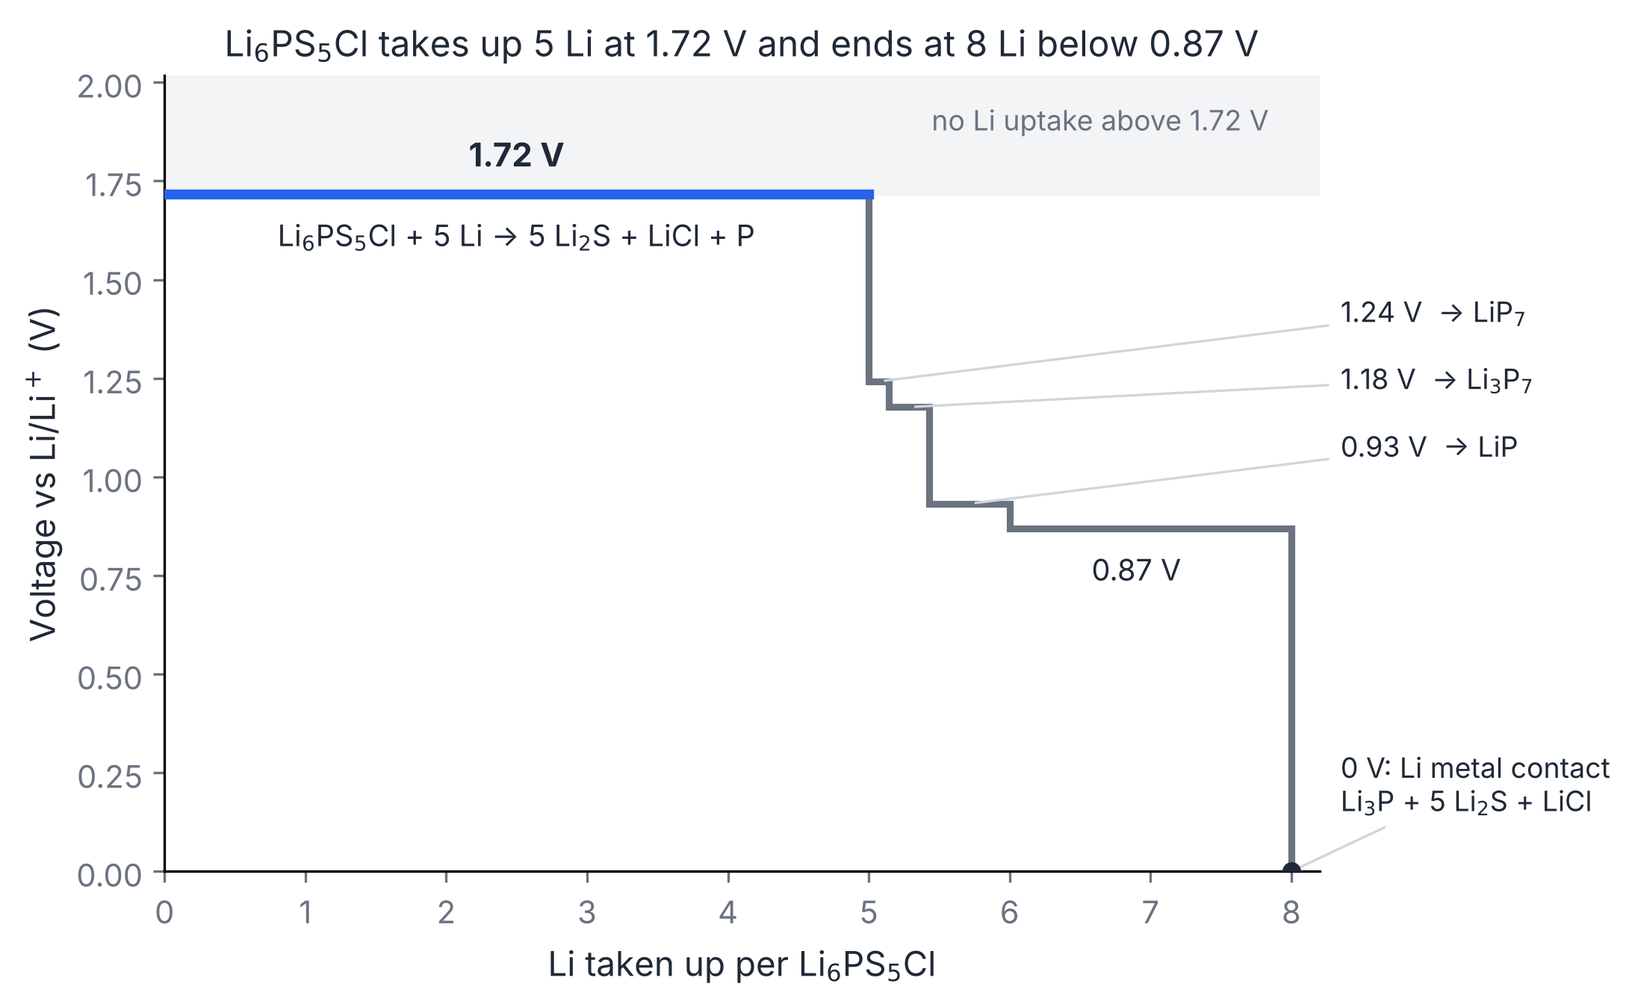
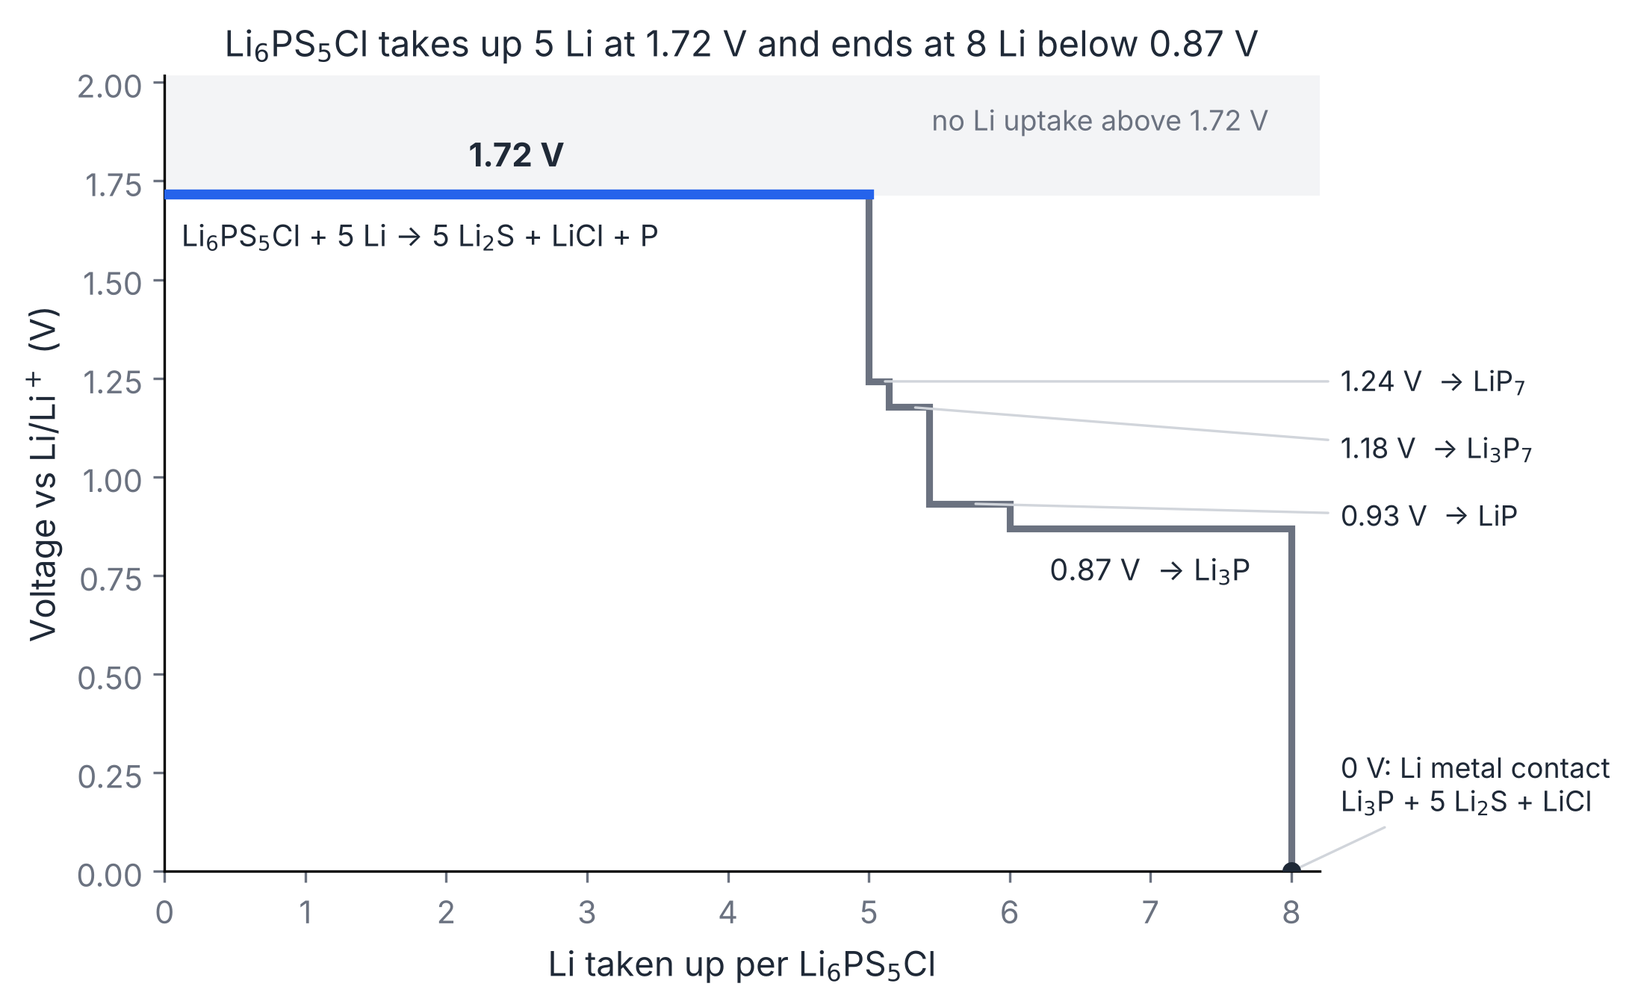
SDI Ag–C Q2 결과: Ag2S 1.91 V · Li–Ag ≤ 0.59 V · 열린계 Ag2S 2.0 V 부터 · 닫힌계 반응 0 — 그림 2 · 3 + CSV · 카드 결과 (결정은 proposed 유지)
- plot_li_uptake_profile.py: 전위 지도 모드 (--window_map · --interface) · 묶음 표시 (--group_below) · 라벨 배치 ·
  selftest 22 (음성: 반응물 쪽 Ag2S · 끝점 칸 · 빈 격자) · 변이 6 잡음
- 그림 1 다시 그림 (라벨) · 그림 2 Ag2S 계단 · 그림 3 Ag | Li6PS5Cl 전위 지도 (+ Origin CSV)
- 카드 sdi_agc_ag2s_window: 결과_2026_11_16 (G1–G4 · 허용 문장 채움) · 결정 D-2026-11-16-sdi-agc-ag2s-window 는 사용자 명시 비준 대기
- open_items SDI 줄

Claude-Session: https://claude.ai/code/session_01Er41drwDRfvL6hhZbVtBiw

diff --git a/tools/oxidation/plot_li_uptake_profile.py b/tools/oxidation/plot_li_uptake_profile.py
@@ -124,7 +124,7 @@ def staircase_rows(prof, side):
     return keep, pts
 
 
-def plot(prof, name, side, out_png, title=None, contact_label="0 V: Li metal contact"):
+def plot(prof, name, side, out_png, title=None, contact_label="0 V: Li metal contact", group_below=None, group_label=None):
     import matplotlib
     matplotlib.use("Agg")
     import matplotlib.pyplot as plt
@@ -149,21 +149,37 @@ def plot(prof, name, side, out_png, title=None, contact_label="0 V: Li metal con
     ax.plot([first["n0"], first["n1"]], [first["V"]] * 2, color=GAPLINE, lw=3.2, zorder=3)
     ax.text((first["n0"] + first["n1"]) / 2, first["V"] + 0.05, f"{first['V']:.2f} V", ha="center", va="bottom",
             fontsize=10.5, fontweight="bold", color=INK)
-    ax.text((first["n0"] + first["n1"]) / 2, first["V"] - 0.06, _mt(f"{name} + {first['n1']:g} Li → {first['end_products']}"),
-            ha="center", va="top", fontsize=9.5, color=INK)
-    narrow = [s for s in keep[1:] if (s["n1"] - s["n0"]) < 1.0]
-    wide = [s for s in keep[1:] if (s["n1"] - s["n0"]) >= 1.0]
-    for j, s in enumerate(narrow):
-        ly = edge - 0.30 - 0.17 * j
+    lab0 = _mt(f"{name} + {first['n1']:g} Li → {first['end_products']}")
+    fits = len(re.sub(r"\$_\{[^}]*\}\$", "x", lab0)) * 0.085 < (first["n1"] - first["n0"]) - 0.2
+    ax.text(first["n0"] + 0.12 if fits else first["n1"] + 0.15, first["V"] - 0.06, lab0,
+            ha="left", va="top", fontsize=9.5, color=INK)
+    rest = keep[1:]
+    grouped = [s for s in rest if group_below is not None and s["V"] < group_below]
+    rest = [s for s in rest if s not in grouped]
+    narrow = [s for s in rest if (s["n1"] - s["n0"]) < 1.0]
+    wide = [s for s in rest if (s["n1"] - s["n0"]) >= 1.0]
+    if grouped:
+        vlo, vhi = min(s["V"] for s in grouped), max(s["V"] for s in grouped)
+        bx = xmax + 0.28
+        ax.plot([bx, bx + 0.08, bx + 0.08, bx], [vhi, vhi, vlo, vlo], color=MUT, lw=1.0, clip_on=False)
+        ax.text(bx + 0.18, (vlo + vhi) / 2 + 0.06, _mt(f"{group_label or 'grouped steps'}\n{vlo:.2f}–{vhi:.2f} V"),
+                ha="left", va="center", fontsize=9, color=INK)
+    prev = None
+    for j, s in enumerate(sorted(narrow, key=lambda q: -q["V"])):
+        ly = s["V"] if prev is None else min(s["V"], prev - 0.17)
+        prev = ly
         lx = xmax + 0.35
         phase = re.sub(r"^[0-9.]+\s+", "", s["end_products"].split(" + ")[0])
         ax.annotate(_mt(f"{s['V']:.2f} V  → {phase}"), xy=((s["n0"] + s["n1"]) / 2, s["V"]),
                     xytext=(lx, ly), fontsize=9, color=INK, va="center",
                     arrowprops=dict(arrowstyle="-", color="#d1d5db", lw=0.8))
     for s in wide:
-        ax.text((s["n0"] + s["n1"]) / 2 - 0.1, s["V"] - 0.06, f"{s['V']:.2f} V", ha="center", va="top", fontsize=9.5, color=INK)
+        phase = re.sub(r"^[0-9.]+\s+", "", s["end_products"].split(" + ")[0])
+        low = s["V"] < 0.3
+        ax.text((s["n0"] + s["n1"]) / 2, s["V"] + (0.03 if low else -0.06), _mt(f"{s['V']:.2f} V  → {phase}"), ha="center",
+                va="bottom" if low else "top", fontsize=9.5, color=INK)
     ax.plot([end["n"]], [end["V"]], "o", color=INK, ms=5, zorder=4)
-    ax.annotate(_mt(f"{contact_label}\n{end['products']}"), xy=(end["n"], end["V"]), xytext=(xmax + 0.35, 0.22),
+    ax.annotate(_mt(f"{contact_label}\n{end['products']}"), xy=(end["n"], end["V"]), xytext=(xmax + (0.55 if grouped else 0.35), 0.06 if grouped else 0.22),
                 fontsize=9, color=INK, va="center", arrowprops=dict(arrowstyle="-", color="#d1d5db", lw=0.8))
     ax.set_xlim(min(0.0, xs[0]), xmax * 1.0 + 0.2)
     ax.set_ylim(0, ytop)
@@ -173,6 +189,112 @@ def plot(prof, name, side, out_png, title=None, contact_label="0 V: Li metal con
     Path(out_png).parent.mkdir(parents=True, exist_ok=True)
     fig.savefig(out_png, dpi=300, bbox_inches="tight")
     plt.close(fig)
+
+
+def ag2s_grid_from_interface(inter, cathode="Ag", elab="LPSCl"):
+    """열린계 계면 결과 → 격자 전압마다 (Ag2S 가 최소 반응 산물에 있나, 끝점인가).
+    ⛔ 끝점 (자체 분해) 칸 · Ag2S 가 반응물 쪽에만 있는 칸은 'Ag2S 생성' 으로 세지 않는다."""
+    c = inter["results"][cathode]
+    rows = []
+    for V, rx in c["reactions"].items():
+        r = rx.get(elab)
+        deg = bool(c["endpoint_degenerate"][V].get(elab))
+        rhs = r.split("->", 1)[1] if isinstance(r, str) and "->" in r else ""
+        has = (not deg) and bool(re.search(r"(^|\s)Ag2S(\s|$)", rhs.replace("+", " ")))
+        e = c["by_voltage"][V].get(elab)
+        rows.append({"V": float(V), "ag2s_product": has, "endpoint": deg,
+                     "dE_meV_per_atom": None if e is None else round(e * 1000, 1), "reaction": r})
+    rows.sort(key=lambda d: d["V"])
+    yes = [d["V"] for d in rows if d["ag2s_product"]]
+    no_below = [d["V"] for d in rows if not d["ag2s_product"] and (not yes or d["V"] < min(yes))]
+    return {"rows": rows, "onset_grid_V": min(yes) if yes else None,
+            "last_without_V": max(no_below) if (yes and no_below) else None}
+
+
+def window_regions(ladders, se, ag2s, ag, inter=None):
+    """사다리 셋 (+ 열린계 격자) → 전위 지도 구간. 가장자리는 전부 사다리에서 다시 낸다."""
+    pse, p2s, pag = profile(rows_from_result(ladders[se])), profile(rows_from_result(ladders[ag2s])), profile(rows_from_result(ladders[ag]))
+    v_red, v_ox = pse["edge_reduction_V"], pse["edge_oxidation_V"]
+    v_ag2s, v_agli = p2s["edge_reduction_V"], pag["edge_reduction_V"]
+    if v_ox is None:
+        raise ValueError("SE 사다리에 산화 가장자리가 없다")
+    regs = [
+        ("Li6PS5Cl", "reduced by Li (Li2S + LiCl + P, then Li3P)", 0.0, v_red),
+        ("Li6PS5Cl", "stable", v_red, v_ox),
+        ("Li6PS5Cl", "oxidized", v_ox, None),
+        ("Ag2S", "reduced by Li to Li2S + Ag", 0.0, v_ag2s),
+        ("Ag2S", "stable", v_ag2s, None),
+        ("Ag metal next to Li6PS5Cl", "Li-Ag alloys", 0.0, v_agli),
+        ("Ag metal next to Li6PS5Cl", "Ag metal, no reaction", v_agli, v_ag2s),
+        ("Ag metal next to Li6PS5Cl", "Ag + Li6PS5Cl -> Ag2S + Li", v_ag2s, None)]
+    out = {"regions": [{"species": a, "region": b, "V_low": lo, "V_high": hi} for a, b, lo, hi in regs],
+           "V": {"se_reduction": v_red, "se_oxidation": v_ox, "ag2s_reduction": v_ag2s, "ag_lithiation": v_agli}}
+    if inter is not None:
+        out["grid"] = ag2s_grid_from_interface(inter)
+    return out
+
+
+def plot_window_map(wm, out_png, vmax=2.6, title=None):
+    import matplotlib
+    matplotlib.use("Agg")
+    import matplotlib.pyplot as plt
+    sys.path.insert(0, str(Path(__file__).resolve().parents[2]))
+    from tools.figures.house_style import INK, MUT, GAPLINE, apply_axes
+    rows = ["Li6PS5Cl", "Ag2S", "Ag metal next to Li6PS5Cl"]
+    ylab = {"Li6PS5Cl": "Li$_6$PS$_5$Cl", "Ag2S": "Ag$_2$S", "Ag metal next to Li6PS5Cl": "Ag next to\nLi$_6$PS$_5$Cl"}
+    accent_regions = {"stable", "Ag + Li6PS5Cl -> Ag2S + Li"}
+    fig, ax = plt.subplots(figsize=(8.2, 3.6))
+    for k, sp in enumerate(rows):
+        y = len(rows) - 1 - k
+        for r in [r for r in wm["regions"] if r["species"] == sp]:
+            lo, hi = r["V_low"], (r["V_high"] if r["V_high"] is not None else vmax)
+            acc = (sp != "Li6PS5Cl" and r["region"] in accent_regions)
+            light = r["region"] == "stable" or r["region"].startswith("Ag metal, no")
+            col = GAPLINE if acc else ("#e5e7eb" if light else "#9ca3af")
+            ax.barh(y, hi - lo, left=lo, height=0.56, color=col, alpha=0.85 if acc else 1.0, edgecolor="white", lw=1.2)
+            lab = _mt(r["region"].replace("->", "→").replace("Li-Ag", "Li–Ag"))
+            if hi - lo > 0.3:
+                ax.text((lo + hi) / 2, y, lab, ha="center", va="center", fontsize=7.8, color="white" if (acc or not light) else INK)
+        ax.text(-0.05, y, ylab[sp], ha="right", va="center", fontsize=10, color=INK)
+    v = wm["V"]
+    top = len(rows) - 0.55
+    ax.plot([v["ag2s_reduction"]] * 2, [-0.62, top + 0.25], color=GAPLINE, ls="--", lw=1.2, zorder=4)
+    ax.text(v["ag2s_reduction"] + 0.03, top + 0.18, f"{v['ag2s_reduction']:.2f} V", ha="left", va="center", fontsize=9.5,
+            color=GAPLINE, fontweight="bold")
+    ax.plot([0.01, v["ag_lithiation"]], [top + 0.18] * 2, color=MUT, lw=1.6, solid_capstyle="butt")
+    ax.text(v["ag_lithiation"] + 0.03, top + 0.18, f"Li / Li–Ag contact (≤ {v['ag_lithiation']:.2f} V)", ha="left",
+            va="center", fontsize=8.5, color=MUT)
+    g = wm.get("grid")
+    if g:
+        for d in g["rows"]:
+            ax.plot(d["V"], -0.47, "o", ms=5, mfc=INK if d["ag2s_product"] else "white", mec=INK, mew=1.0, zorder=5)
+        ax.text(0.01, -0.70, "open-Li grid (filled = Ag₂S among Ag + Li₆PS₅Cl reaction products)", ha="left", va="center",
+                fontsize=8, color=MUT)
+    ax.set_xlim(0, vmax)
+    ax.set_ylim(-0.85, top + 0.35)
+    ax.set_yticks([])
+    ax.spines["left"].set_visible(False)
+    apply_axes(ax, xlabel="Voltage vs Li/Li$^+$ (V)",
+               title=_mt(title or "Ag2S is stable next to Li6PS5Cl only above 1.91 V vs Li"), fontsize=11)
+    fig.tight_layout()
+    Path(out_png).parent.mkdir(parents=True, exist_ok=True)
+    fig.savefig(out_png, dpi=300, bbox_inches="tight")
+    plt.close(fig)
+
+
+def write_window_csv(wm, out_csv):
+    Path(out_csv).parent.mkdir(parents=True, exist_ok=True)
+    with open(out_csv, "w", newline="", encoding="utf-8") as fh:
+        w = csv.writer(fh)
+        w.writerow(["species", "region", "V_low_vs_Li_V", "V_high_vs_Li_V"])
+        for r in wm["regions"]:
+            w.writerow([r["species"], r["region"], r["V_low"], "" if r["V_high"] is None else r["V_high"]])
+        g = wm.get("grid")
+        if g:
+            w.writerow([])
+            w.writerow(["open_Li_grid_V", "Ag2S_in_min_reaction_products", "endpoint_self_decomposition", "dE_meV_per_atom", "reaction"])
+            for d in g["rows"]:
+                w.writerow([d["V"], d["ag2s_product"], d["endpoint"], "" if d["dE_meV_per_atom"] is None else d["dE_meV_per_atom"], d["reaction"]])
 
 
 def write_csv(pts, out_csv):
@@ -193,6 +315,28 @@ COMP1_FIXTURE = [[0.0, 8.0, "Li6PS5Cl + 8 Li -> Li3P + 5 Li2S + LiCl"],
                  [2.256, -2.0, "Li6PS5Cl -> Li3PS4 + LiCl + S + 2 Li"],
                  [2.385, -5.0, "Li6PS5Cl -> 0.5 P2S7 + LiCl + 1.5 S + 5 Li"],
                  [3.326, -6.0, "Li6PS5Cl -> 0.5 P2S7 + 0.5 S + SCl + 6 Li"]]
+
+
+AG2S_FIXTURE = [[1.914, 0.0, "Ag2S -> Ag2S"], [0.592, 2.0, "Ag2S + 2 Li -> Li2S + 2 Ag"],
+                [0.369, 2.6667, "Ag2S + 2.667 Li -> 0.6667 LiAg3 + Li2S"], [0.14, 4.0, "Ag2S + 4 Li -> 2 LiAg + Li2S"],
+                [0.072, 5.2, "Ag2S + 5.2 Li -> 0.4 Li8Ag5 + Li2S"], [0.0, 8.0, "Ag2S + 8 Li -> 2 Li3Ag + Li2S"]]
+AG_FIXTURE = [[0.592, 0.0, "Ag -> Ag"], [0.369, 0.3333, "Ag + 0.3333 Li -> 0.3333 LiAg3"], [0.14, 1.0, "Ag + Li -> LiAg"],
+              [0.072, 1.6, "Ag + 1.6 Li -> 0.2 Li8Ag5"], [0.0, 3.0, "Ag + 3 Li -> Li3Ag"]]
+
+
+def _iface_fixture():
+    def cell(V, rx, deg, e):
+        return V, rx, deg, e
+    cells = [cell("1.90", "Li6PS5Cl -> Li2S + Li3PS4 + LiCl", True, 0.0),
+             cell("2.00", "0.6667 Ag + 0.3333 Li6PS5Cl -> 0.6667 Li + 0.3333 Li3PS4 + 0.3333 Ag2S + 0.3333 LiCl", False, -0.019),
+             cell("1.50", "Li6PS5Cl + 5 Li -> P + 5 Li2S + LiCl", True, -0.155),
+             cell("2.10", "0.8333 Ag + 0.1667 Li6PS5Cl -> 0.8333 Li + 0.1667 Ag3PS4 + 0.1667 Ag2S + 0.1667 LiCl", False, -0.055)]
+    c = {"reactions": {}, "endpoint_degenerate": {}, "by_voltage": {}}
+    for V, rx, deg, e in cells:
+        c["reactions"][V] = {"LPSCl": rx}
+        c["endpoint_degenerate"][V] = {"LPSCl": deg}
+        c["by_voltage"][V] = {"LPSCl": e}
+    return {"results": {"Ag": c}}
 
 
 def selftest():
@@ -241,6 +385,25 @@ def selftest():
     chk("[음성] V_vs_Li 없는 profile (Li 를 안 연 결과) 은 멈춘다",
         raises(lambda: rows_from_result({"profile": [{"evolution_Li": 0, "reaction": "a -> b"}]})))
     chk("[음성] steps 도 profile 도 없으면 멈춘다", raises(lambda: rows_from_result({"reduction_limit_V": 1.242})))
+    lad = {"comp1": {"steps": COMP1_FIXTURE}, "Ag2S": {"steps": AG2S_FIXTURE}, "Ag": {"steps": AG_FIXTURE}}
+    wmap = window_regions(lad, "comp1", "Ag2S", "Ag", _iface_fixture())
+    chk("[양성] 전위 지도 가장자리 = SE 1.717 / 2.256 · Ag2S 1.914 · Li–Ag 0.592 (전부 사다리에서)",
+        wmap["V"] == {"se_reduction": 1.717, "se_oxidation": 2.256, "ag2s_reduction": 1.914, "ag_lithiation": 0.592})
+    chk("[양성] 열린계 격자: Ag2S 첫 등장 2.0 V · 그 아래 마지막 '없음' 1.9 V", wmap["grid"]["onset_grid_V"] == 2.0
+        and wmap["grid"]["last_without_V"] == 1.9)
+    fx2 = _iface_fixture()
+    fx2["results"]["Ag"]["reactions"]["1.80"] = {"LPSCl": "Ag2S + 2 Li -> Li2S + 2 Ag"}
+    fx2["results"]["Ag"]["endpoint_degenerate"]["1.80"] = {"LPSCl": False}
+    fx2["results"]["Ag"]["by_voltage"]["1.80"] = {"LPSCl": -0.076}
+    chk("[음성] Ag2S 가 반응물 쪽에만 있으면 '생성' 으로 세지 않는다", ag2s_grid_from_interface(fx2)["onset_grid_V"] == 2.0)
+    fx3 = _iface_fixture()
+    fx3["results"]["Ag"]["endpoint_degenerate"]["2.00"] = {"LPSCl": True}
+    chk("[음성] 끝점 (자체 분해) 칸은 Ag2S 가 있어도 세지 않는다", ag2s_grid_from_interface(fx3)["onset_grid_V"] == 2.1)
+    fx4 = _iface_fixture()
+    for V in ("2.00", "2.10"):
+        fx4["results"]["Ag"]["endpoint_degenerate"][V] = {"LPSCl": True}
+    g4 = ag2s_grid_from_interface(fx4)
+    chk("[음성] Ag2S 칸이 하나도 없으면 첫 등장은 None (0 으로 두지 않는다)", g4["onset_grid_V"] is None and g4["last_without_V"] is None)
     print(f"\nselftest: {ok} passed, {fail} failed")
     return 0 if fail == 0 else 1
 
@@ -255,9 +418,30 @@ def main():
     ap.add_argument("--out_png")
     ap.add_argument("--out_csv")
     ap.add_argument("--selftest", action="store_true", help="자체 점검 (음성 경로 포함)")
+    ap.add_argument("--window_map", nargs=3, metavar=("SE", "AG2S", "AG"),
+                    help="전위 지도 모드 — --esw 안의 세 라벨 (예: comp1 Ag2S Ag) · --interface 를 주면 열린계 격자 점을 얹는다")
+    ap.add_argument("--interface", help="interface_reactivity_v2.py 열린계 결과 JSON (cathodes 에 Ag · 전해질 라벨 LPSCl)")
+    ap.add_argument("--group_below", type=float, help="이 전위 아래 계단 (첫 계단 제외) 은 그림에서 묶음 하나로 표시 (CSV 에는 다 남는다)")
+    ap.add_argument("--group_label", help="--group_below 묶음 이름 (예: 'Li–Ag alloying')")
     a = ap.parse_args()
     if a.selftest:
         return selftest()
+    if a.window_map:
+        if not (a.esw and (a.out_png or a.out_csv)):
+            ap.error("--window_map 은 --esw 와 --out_png 또는 --out_csv 가 필요하다")
+        lad = json.loads(Path(a.esw).read_text(encoding="utf-8"))["results"]
+        inter = json.loads(Path(a.interface).read_text(encoding="utf-8")) if a.interface else None
+        se, s2, ag = a.window_map
+        wmap = window_regions(lad, se, s2, ag, inter)
+        print("전위 지도:", {k: round(v, 3) for k, v in wmap["V"].items()})
+        if wmap.get("grid"):
+            g = wmap["grid"]
+            print(f"  열린계 격자: Ag2S 첫 등장 {g['onset_grid_V']} V · 그 아래 마지막 '없음' {g['last_without_V']} V")
+        if a.out_csv:
+            write_window_csv(wmap, a.out_csv); print(f"→ {a.out_csv}")
+        if a.out_png:
+            plot_window_map(wmap, a.out_png, title=a.title); print(f"→ {a.out_png}")
+        return 0
     if not (a.esw and a.label and a.name and (a.out_png or a.out_csv)):
         ap.error("--esw --label --name 과 --out_png 또는 --out_csv 가 필요하다 (또는 --selftest)")
     d = json.loads(Path(a.esw).read_text(encoding="utf-8"))
@@ -275,7 +459,7 @@ def main():
         write_csv(pts, a.out_csv)
         print(f"→ {a.out_csv}")
     if a.out_png:
-        plot(prof, a.name, a.side, a.out_png, title=a.title)
+        plot(prof, a.name, a.side, a.out_png, title=a.title, group_below=a.group_below, group_label=a.group_label)
         print(f"→ {a.out_png}")
     return 0
 

diff --git a/kb/open_items.md b/kb/open_items.md
@@ -21,7 +21,7 @@
 - 🗂 **사수 11-13 세미나 쪽별 검토 (11-16 · 사용자 *"MD도 추가해봥"* · *"db, md 로 저장해놔줘"* · *"각 페이지마다 설명 · 우리 데이터와의 비교 · 추가로 필요한 부분"*)**: `kb/seminars/bml_seminar_2026_11_13_logic_review_ko.md` + `db/properties/seminar_review_bml_2026_11_13.json` (`pages` 33 · `findings` 33). 핵심 — p8 MD Ea 대조는 `HZ-cross-system-Ea` BLOCKED · 탄성 E 는 비교군 다름 (증가는 전단에서만 · B 는 내려감) · 결정성 계열은 σ · E 가 같이 움직여 단독으로 분리 불가 · DEM 은 탄성만 (자기 항복강도 60–110 MPa ≪ 300 MPa) · B₂O₃ 는 '방향' 까지. ⚠ 첫 판의 Li–Cl 4a/4d 분할값은 10-14 분류기 정정에 걸려 뺐다 (JSON `정정_2026_11_16`). ⏭ b2o3 9 단계 자리 DFT 결과가 나오면 p24–25 (B–O 대 모델) 다시 본다. 🔔 **교수님 숙제 (사용자 · 녹취 34:39–36:00)**: 앞부분 DEM 에 **소성 변형** — *"용훈이가 빨리빨리 디벨롭을 해서 이쪽은 보강을 하세요"* (없으면 '과제용 · 논문용 아님') · 쪽마다 발표자 · 교수님 발언은 기록 `pages[].발표자_녹취 · 교수님`.
 - 🗂 **6 월 덱 두 판 유효성 대조 (11-16 · 사용자 *"이 내용들이 아직 유효한건가"* · *"해당 md 나한테도 줘용"* · 사수 수정판 PDF)**: `kb/results/MASTER_structure_property_logic_2026_06_21.md` 머리 11-16 배너 — 06-22 pptx (27 장 · 우리) 대 06-23 PDF (24 쪽 · 사수). 사수 판은 PMF · 자리별 PDOS · CDD · UPS · ESW 개념도와 몇몇 기전 문장을 뺐다. 아직 ⛔ = MD 계간 대조 · σ 절대값 (p2 · p5 · p6 · p10) · Zener A 증가 (p13) · 4a/4d 90/10 (p16–17) · '환원 한계 1.24 V' (p23) · **새 문장 p22 'LPSC1.6 산화 안정성 저하 = VBM 이동'** (p21 · p23 과 어긋남).
 - 🧪 **b2o3 2 단계 온도 (11-16 · 사용자 *"ㅇㅇ 그걸로 먼저해 · 나중에 시간 남으면 650 700도 해도 좋고"*)**: 개정 1 (11-09 active) 의 300 / 600 / 800 / 1000 K × 시드 2 × 400 ps + 같은 1×2×5 셀 modelc 대조 8 런 그대로가 '먼저' · 650 · 700 K 는 시간 남으면 (덧붙일 때 돌리기 전에 개정 · 판정에는 안 씀) · 카드 `⏩_메모_2026_11_16_2단계_온도`. ⚠ 11-16 에 내가 원문 §8 의 옛 600/650/700 을 말했다 (개정 1 안 봄 → CLAUDE.md 계산 규율에 한 줄). ⏭ **이어가는 순서 (사용자 *"b2o3 끝나면 이어갈 수 있게"*)**: 9 단계 이완 3 끝 → read_relax (압력 어림 · EOS 생략 판정) → 10 고르기 (DFT 순서) → 11a 포논 → 11b 골격 열적안정 (개정 1 값 그대로 · 사용자 '2 단계 발사' 뒤) → 12a/12b 띠틈 · DOS · (시간 남으면 650 · 700 K 개정 뒤).
-- 🆕 **SDI 과제 (Ag–C 인터레이어 · crack · 사용자 11-16 *"내가 도와줄 수 있는 부분이 있나?"* · *"시뮬레이션부터 그림 · docs 까지 계획"*)**: 계획 문서 (Claude Docs) https://claude.ai/artifact/U8zUyerDe92osWJsxk7S6U. ① Q1 Li 환원 사다리 = 원장 값 (`esw_lis4excluded.json` comp1 · **1.717 V 에서 Li 5 개 → 5 Li₂S + LiCl + P** · 1.242 V 는 P → LiP₇ · 0.87 V 아래 Li 8 개 → Li₃P + 5 Li₂S + LiCl) → 그림 1 `docs/figures/sdi_agc/fig1_lpscl_li_uptake_profile.png` + CSV `db/properties/sdi_agc_lpscl_li_uptake_profile_2026_11_16.csv` (새 도구 `tools/oxidation/plot_li_uptake_profile.py` · selftest 17 · 변이 3 잡음). ⚠ 11-16 첫 채팅 답에서 내가 계단을 한 칸 밀어 말했다 (1.24 V 를 Li 5 개 단계로) — 그림 · 문서가 맞다. ② Q2 Ag₂S 전위 창 = 카드 `db/properties/sdi_agc_ag2s_window_card_2026_11_16.json` (`D-2026-11-16-sdi-agc-ag2s-window` **proposed**) · gabia 블록 (MP · CPU 몇 분 · 결과 JSON push) 사용자 대기 → 그림 2 · 3 → 문서 Q2 절. ⚠ `esw_grand_potential.py` 의 `reduction_limit_V` 키는 아직 옛 off-by-one 규칙이다 (HZ-esw-reduction-limit-label) — 사다리만 읽는다. ③ Q3 MD 는 Q2 뒤 결정.
+- 🆕 **SDI 과제 (Ag–C 인터레이어 · crack · 사용자 11-16 *"내가 도와줄 수 있는 부분이 있나?"* · *"시뮬레이션부터 그림 · docs 까지 계획"*)**: 계획 문서 (Claude Docs) https://claude.ai/artifact/U8zUyerDe92osWJsxk7S6U. ① Q1 Li 환원 사다리 = 원장 값 (`esw_lis4excluded.json` comp1 · **1.717 V 에서 Li 5 개 → 5 Li₂S + LiCl + P** · 1.242 V 는 P → LiP₇ · 0.87 V 아래 Li 8 개 → Li₃P + 5 Li₂S + LiCl) → 그림 1 `docs/figures/sdi_agc/fig1_lpscl_li_uptake_profile.png` + CSV `db/properties/sdi_agc_lpscl_li_uptake_profile_2026_11_16.csv` (새 도구 `tools/oxidation/plot_li_uptake_profile.py` · selftest 17 · 변이 3 잡음). ⚠ 11-16 첫 채팅 답에서 내가 계단을 한 칸 밀어 말했다 (1.24 V 를 Li 5 개 단계로) — 그림 · 문서가 맞다. ② **Q2 결과 (11-16 사용자 gabia 실행 · 커밋 2a6504dc8 · 게이트 G1–G4 통과)**: Ag₂S + 2 Li → Li₂S + 2 Ag = **1.914 V** · Li–Ag 합금 0.592 · 0.369 · 0.140 · 0.072 V · 열린계 Ag | Li₆PS₅Cl 에서 Ag₂S 는 격자 2.0 V 부터 (1.9 V 없음) · 닫힌계 반응 0 ⇒ crack 의 Ag₂S 는 국소 전위 ≥ 1.91 V 일 때만 · Li 가 오면 Li₂S + Ag (Ag₂S 당 Li 2). 그림 2 `fig2_ag2s_li_uptake_profile.png` · 그림 3 `fig3_ag_lpscl_window_map.png` (+ CSV) · 문서 Q2 절 갱신 (전위 지도 위젯 · 계면 표). 카드 `sdi_agc_ag2s_window_card_2026_11_16.json` 에 `결과_2026_11_16` · 결정 `D-2026-11-16-sdi-agc-ag2s-window` 는 **proposed 그대로 — 사용자 명시 비준 대기** (블록 실행을 비준으로 적으려다 막혔다 · 비준은 사용자 말로만). ⚠ `esw_grand_potential.py` 의 `reduction_limit_V` 키는 아직 옛 off-by-one 규칙 (Ag₂S 0.592 · comp1 1.242) — 사다리만 읽는다. ③ Q3 MD 는 사용자 결정 (열역학이 Ag₂S 를 1.91 V 위로 묶었다 — crack 국소 전위를 모르면 MD 로도 답이 안 난다).
 - **사용자 결정 대기**: cascade DFT 후보 · `/ro_st4.log` 지우기.
 
 <details><summary>지난 갱신 기록 — 2026-11-11 까지 이 제목 줄에 이어 붙여 온 원문 그대로 + 그 뒤 밀려난 '지금 상태' (최신 먼저 · 29 항목)</summary>
